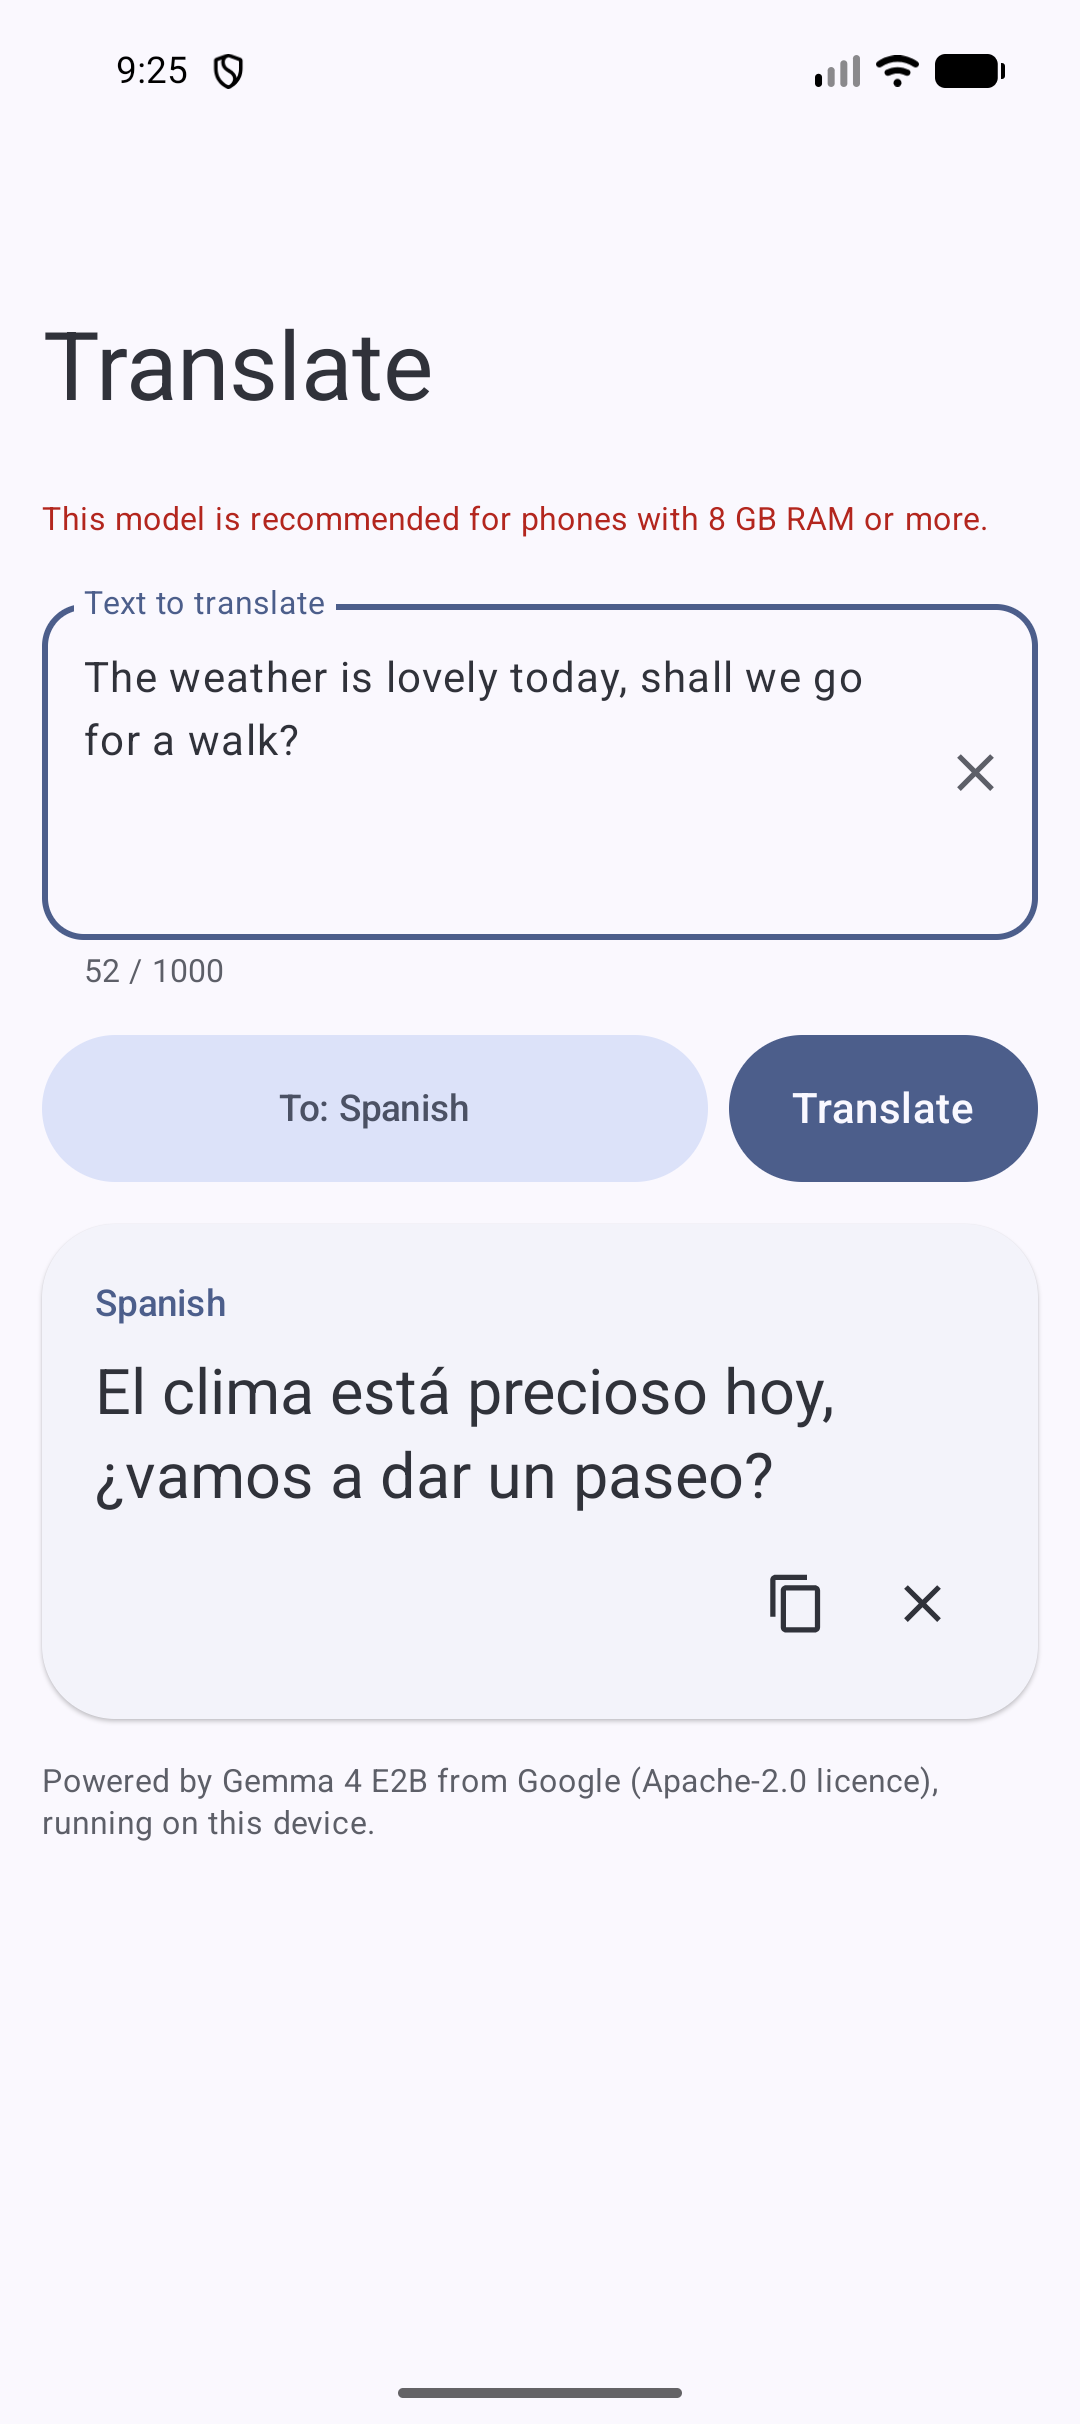
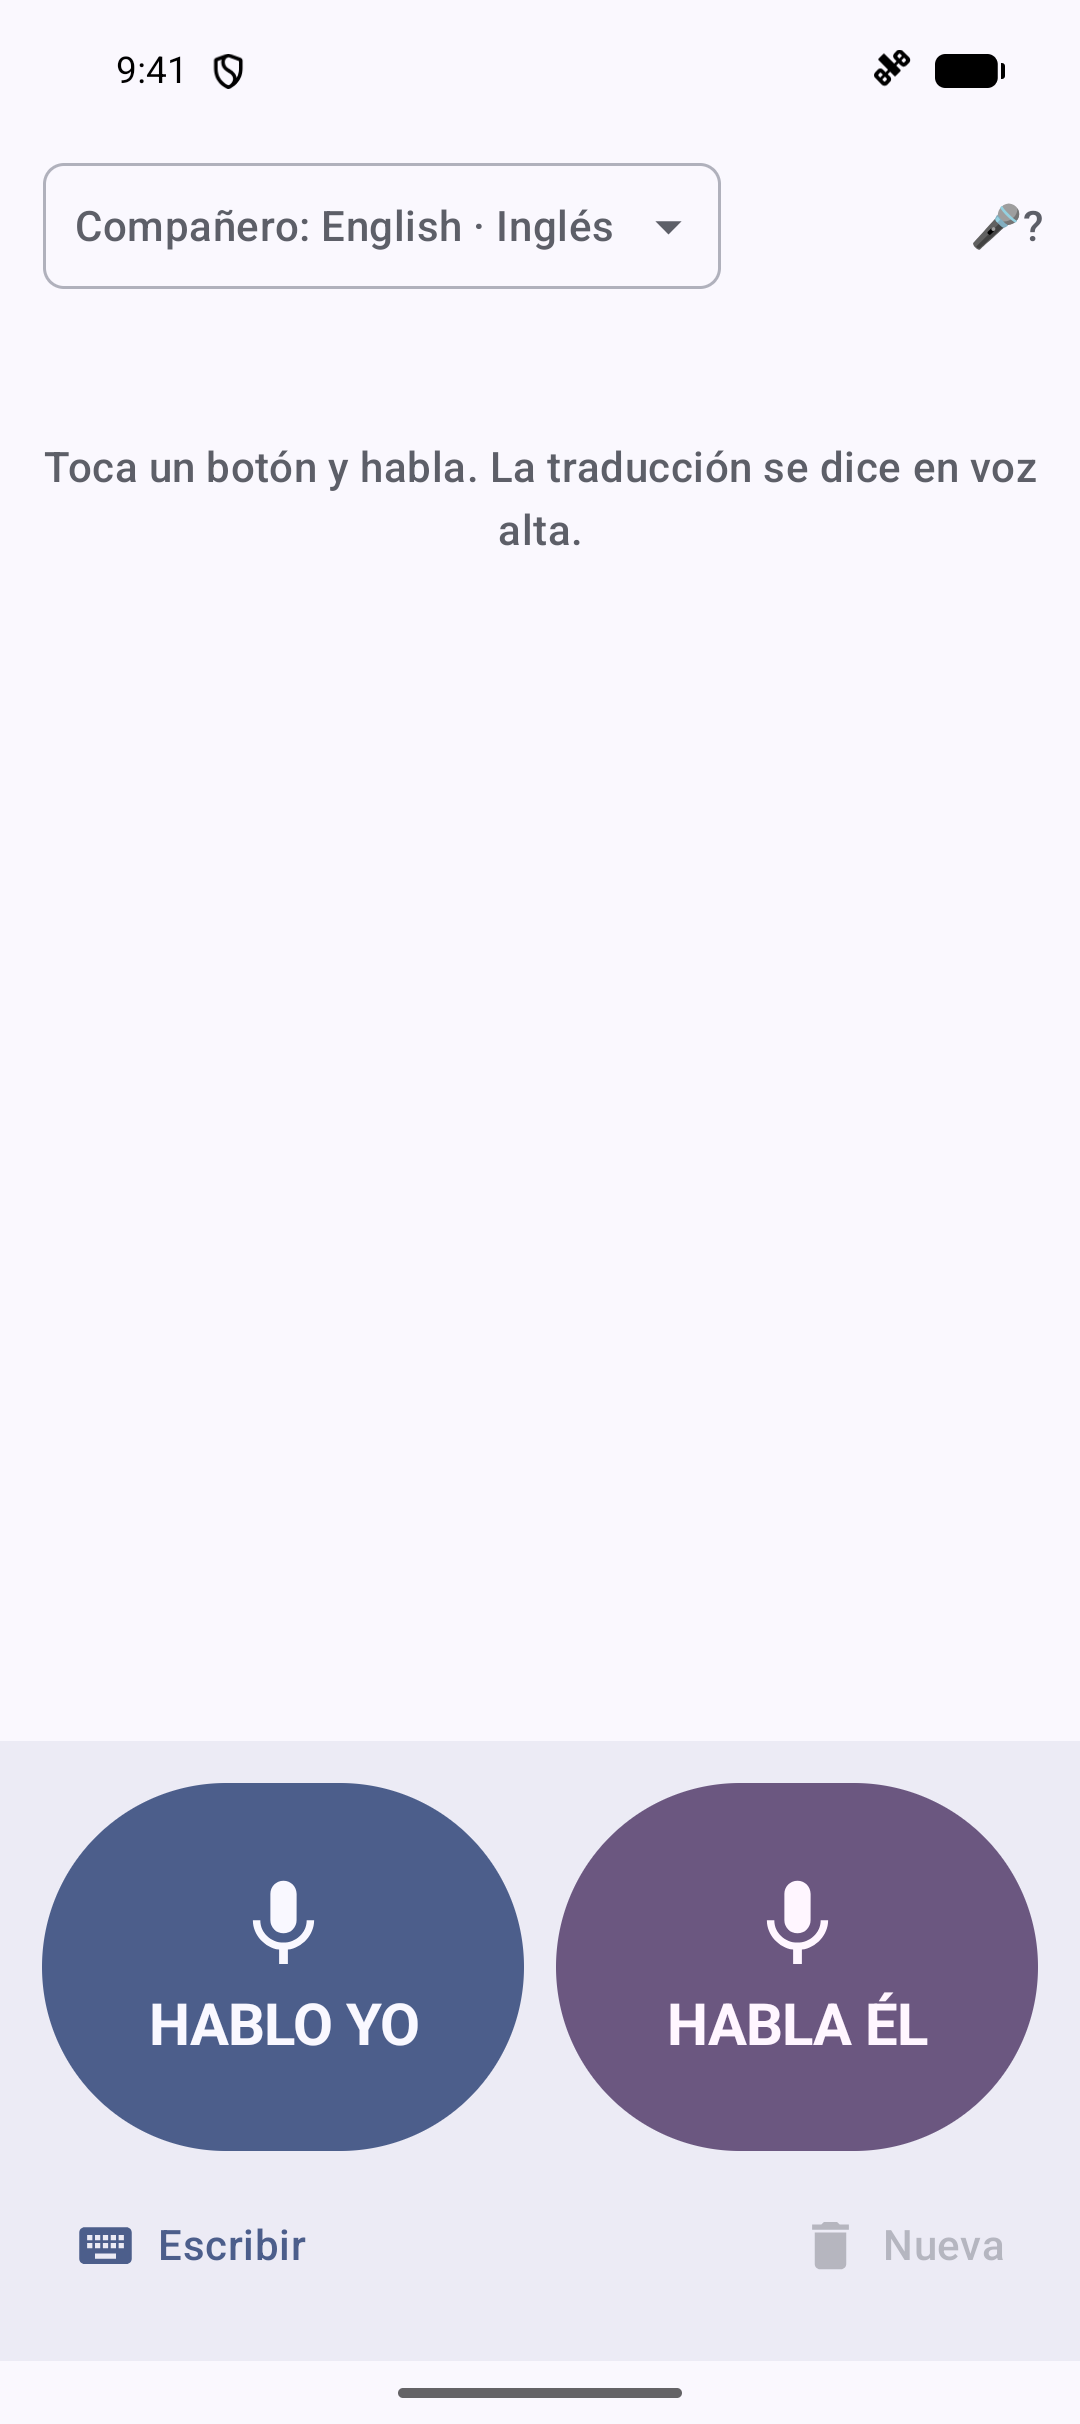
Use Traductor Walter screenshots in the README header

diff --git a/README.md b/README.md
@@ -2,7 +2,7 @@
 
 | Android | iOS |
 |:---:|:---:|
-| <img src="docs/screenshot-android.png" alt="Android app translating an English sentence to Spanish" width="300"> | <img src="docs/screenshot-ios.png" alt="iOS app translating an English sentence to Spanish" width="300"> |
+| <img src="docs/screenshot-android.png" alt="Traductor Walter main screen on Android with the Hablo yo and Habla él buttons" width="300"> | <img src="docs/screenshot-ios.png" alt="Traductor Walter main screen on iOS with the Hablo yo and Habla él buttons" width="300"> |
 
 A minimalist **on-device translator** for Android and iOS. It runs **Gemma 4 E2B** locally with [LiteRT-LM](https://github.com/google-ai-edge/LiteRT-LM) (CPU backend, thinking off).
 
@@ -15,10 +15,6 @@ A minimalist **on-device translator** for Android and iOS. It runs **Gemma 4 E2B
 ## Branch `walter`: Traductor Walter
 
 This branch builds **Traductor Walter** (`dev.heikki.walter`), a variant for a Spanish-only speaker talking with one coworker on construction sites. It adds **voice**: two big buttons ("Hablo yo" / "Habla él"), on-device speech recognition and translation by Gemma 4 E2B's audio encoder, translations read aloud with the phone's offline voices, automatic detection of the coworker's language, and the language remembered between uses. The UI is in Spanish. See [`SPEC-WALTER.md`](SPEC-WALTER.md).
-
-| Android | iOS |
-|:---:|:---:|
-| <img src="docs/screenshot-walter-android.png" alt="Traductor Walter main screen on Android with the Hablo yo and Habla él buttons" width="300"> | <img src="docs/screenshot-walter-ios.png" alt="Traductor Walter main screen on iOS with the Hablo yo and Habla él buttons" width="300"> |
 
 - Same model and one-time download as the main app; still fully offline afterwards. Audio is processed on the phone and deleted right away.
 - Extra permission: microphone (Android `RECORD_AUDIO`, iOS `NSMicrophoneUsageDescription`), asked on the first mic tap.
